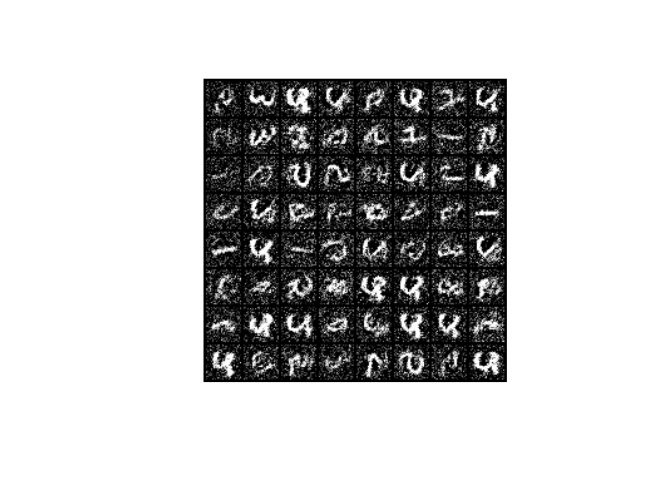
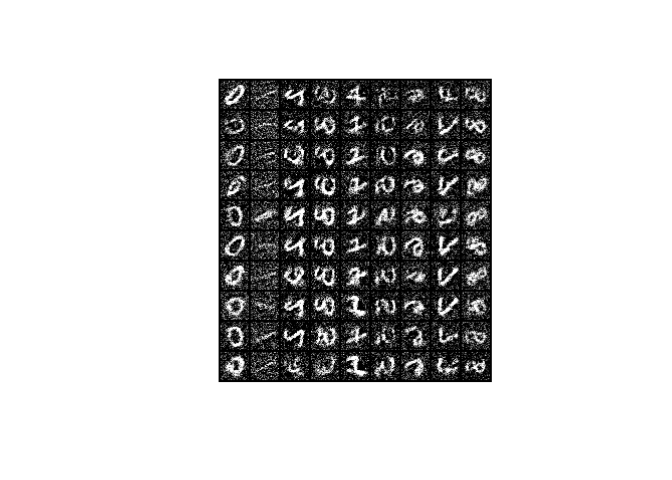
updates for the conditional sampling

Changed region(s): [[0.2812, 0.1562, 0.7812, 0.8125]]

diff --git a/README.md b/README.md
@@ -23,25 +23,14 @@ remotes::install_github("dfalbel/JEM")
 
 ## Experiment
 
-We are going to use the following configuration:
-
-    default:
-      dataset: "mnist"
-      model: "mlp"
-      n_epochs: 5
-      lr: 0.001
-      rho: 0.05
-      eta: 20
-      sigma: 0.01
-      alpha: 1
-      buffer_size: 10000
-      device: "cuda"
-      batch_size: 100
+You can run an experiment with the `run_experiment` function. The
+configuration is found by default in the `config.yaml` file in the root
+directory.
 
 ``` r
 experiment <- JEM::run_experiment()
 #> 
-#> [36m──[39m [1m[1mExperiment config[1m[22m [36m──────────────────────────────────────────────────────────────────────────────────────────────────────[39m
+#> [36m──[39m [1m[1mExperiment config[1m[22m [36m────────────────────────────────────────────────────────────────────────────────────────────────[39m
 #> → dataset : mnist
 #> → model : mlp
 #> → n_epochs : 5
@@ -53,19 +42,24 @@ experiment <- JEM::run_experiment()
 #> → buffer_size : 10000
 #> → device : cuda
 #> → batch_size : 100
-#> ───────────────────────────────────────────────────────────────────────────────────────────────────────────────────────────
-#> [Epoch 1] Train{Loss: 0.741618} Valid{Loss: 0.202188, Acc: 0.950000}
-#> [Epoch 2] Train{Loss: 0.190536} Valid{Loss: 0.119359, Acc: 0.969700}
-#> [Epoch 3] Train{Loss: 0.191412} Valid{Loss: 0.093935, Acc: 0.974000}
-#> [Epoch 4] Train{Loss: 0.168684} Valid{Loss: 0.088714, Acc: 0.973200}
-#> [Epoch 5] Train{Loss: 0.151446} Valid{Loss: 0.072674, Acc: 0.978200}
+#> → conditional : TRUE
+#> ─────────────────────────────────────────────────────────────────────────────────────────────────────────────────────
+#> [Epoch 1] Train{Loss: 0.856000} Valid{Loss: 0.258047, Acc: 0.926600}
+#> [Epoch 2] Train{Loss: 0.131079} Valid{Loss: 0.147414, Acc: 0.960800}
+#> [Epoch 3] Train{Loss: 0.178203} Valid{Loss: 0.126619, Acc: 0.964900}
+#> [Epoch 4] Train{Loss: 0.160592} Valid{Loss: 0.124880, Acc: 0.961600}
+#> [Epoch 5] Train{Loss: 0.138205} Valid{Loss: 0.093921, Acc: 0.971300}
 ```
 
-After the model is run, you can generate samples from p(x) with:
+After the model is run, you can generate samples from \(p(x|y)\) with:
 
 ``` r
-samples <- JEM::generate_samples(experiment, 64, eta = 200)
-JEM::plot_samples(samples)
+samples <- JEM::generate_samples(
+  experiment, 
+  rep(1:9, each = 10), 
+  eta = 200
+)
+JEM::plot_samples(samples, nrow = 10)
 ```
 
 <img src="man/figures/README-unnamed-chunk-2-1.png" width="100%" />
